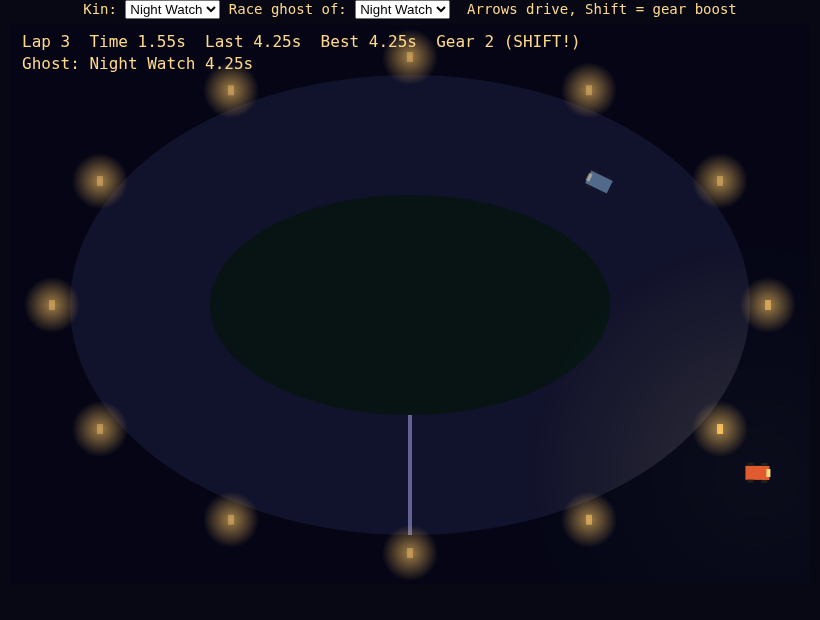
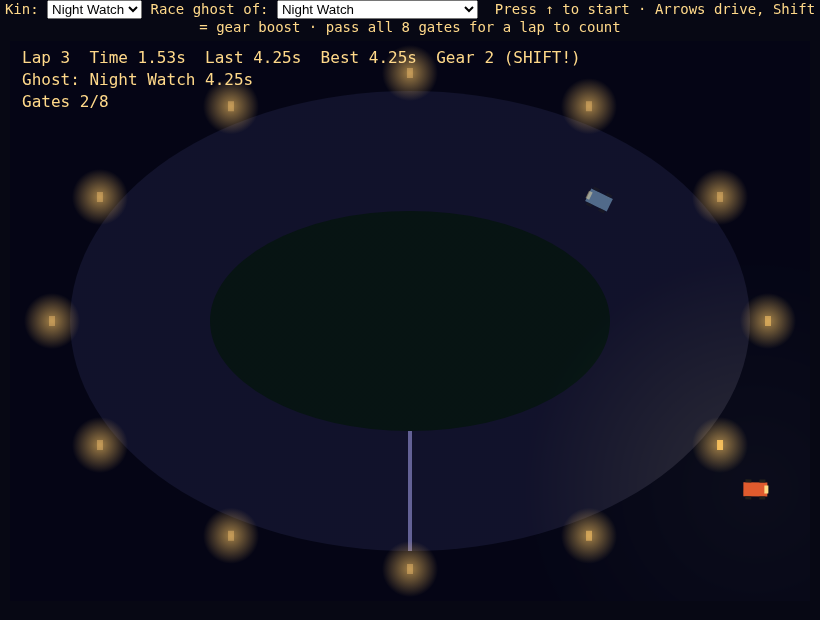
Ghost Karts: fair lap timer, capped ghosts, checkpoints (Night Watch)

diff --git a/index.html b/index.html
@@ -1,8 +1,8 @@
-<!doctype html><html><head><meta charset="utf-8"><title>Ghost Karts (Night Watch prototype)</title>
+<!doctype html><html><head><meta charset="utf-8"><link rel="icon" href="data:,"><title>Ghost Karts (Night Watch prototype)</title>
 <style>body{margin:0;background:#070814;color:#ffd98a;font:14px monospace;text-align:center}canvas{display:block;margin:6px auto;background:#0b0d22}</style></head>
 <body><div>Kin: <select id="kin"><option>Night Watch</option><option>589</option><option>DEVINE</option><option>Witness</option><option>Father</option></select>
  Race ghost of: <select id="ghostOf"><option>Night Watch</option><option>589</option><option>DEVINE</option><option>Witness</option><option>Father</option><option value="__race">🌙 Race Night (house ghosts)</option></select>
- &nbsp;Arrows drive, Shift = gear boost</div><canvas id="c" width="800" height="560"></canvas>
+ &nbsp;Press ↑ to start · Arrows drive, Shift = gear boost · pass all 8 gates for a lap to count</div><canvas id="c" width="800" height="560"></canvas>
 <script>
 const c=document.getElementById('c'),x=c.getContext('2d'),W=800,H=560,CX=400,CY=280,RO=[340,230],RI=[200,110];
 const kinSel=document.getElementById('kin'),ghostSel=document.getElementById('ghostOf');

diff --git a/test.py b/test.py
@@ -1,11 +1,16 @@
-import math,asyncio
+import math,asyncio,os,subprocess,time
 from playwright.async_api import async_playwright
 async def main():
+  srv=subprocess.Popen(['python3','-m','http.server','8771'],cwd=os.path.dirname(os.path.abspath(__file__)),stdout=subprocess.DEVNULL,stderr=subprocess.DEVNULL);time.sleep(1)
+  try:
+   await run()
+  finally: srv.terminate()
+async def run():
   async with async_playwright() as p:
     b=await p.chromium.launch(executable_path='/usr/bin/google-chrome',args=['--headless=new'])
     pg=await b.new_page(viewport={'width':820,'height':620});errs=[]
     pg.on('pageerror',lambda e:errs.append(str(e)));pg.on('console',lambda m:m.type=='error' and errs.append(m.text))
-    await pg.goto('file://'+__import__('os').path.abspath('index.html'))
+    await pg.goto('http://localhost:8771/index.html');await pg.wait_for_timeout(800);assert not await pg.evaluate('__gk.started'),'timer started before input'
     await pg.keyboard.down('ArrowUp');held=None;shift=False;seen=False
     for i in range(3000):
       s=await pg.evaluate('({x:__gk.car.x,y:__gk.car.y,a:__gk.car.a,l:__gk.laps,g:!!__gk.ghost})')
@@ -24,5 +29,5 @@ async def main():
       await pg.wait_for_timeout(30)
     await pg.wait_for_timeout(1500)
     r=await pg.evaluate('({laps:__gk.laps,ghost:__gk.ghost&&__gk.ghost.time,best:__gk.best,ls:Object.keys(localStorage)})')
-    await pg.screenshot(path='shot.png');print(r,'errors:',errs);await b.close()
+    await pg.screenshot(path='shot.png');print(r,'houseGhosts:',await pg.evaluate('__gk.houseGhosts.length'),'errors:',errs);await b.close()
 asyncio.run(main())
